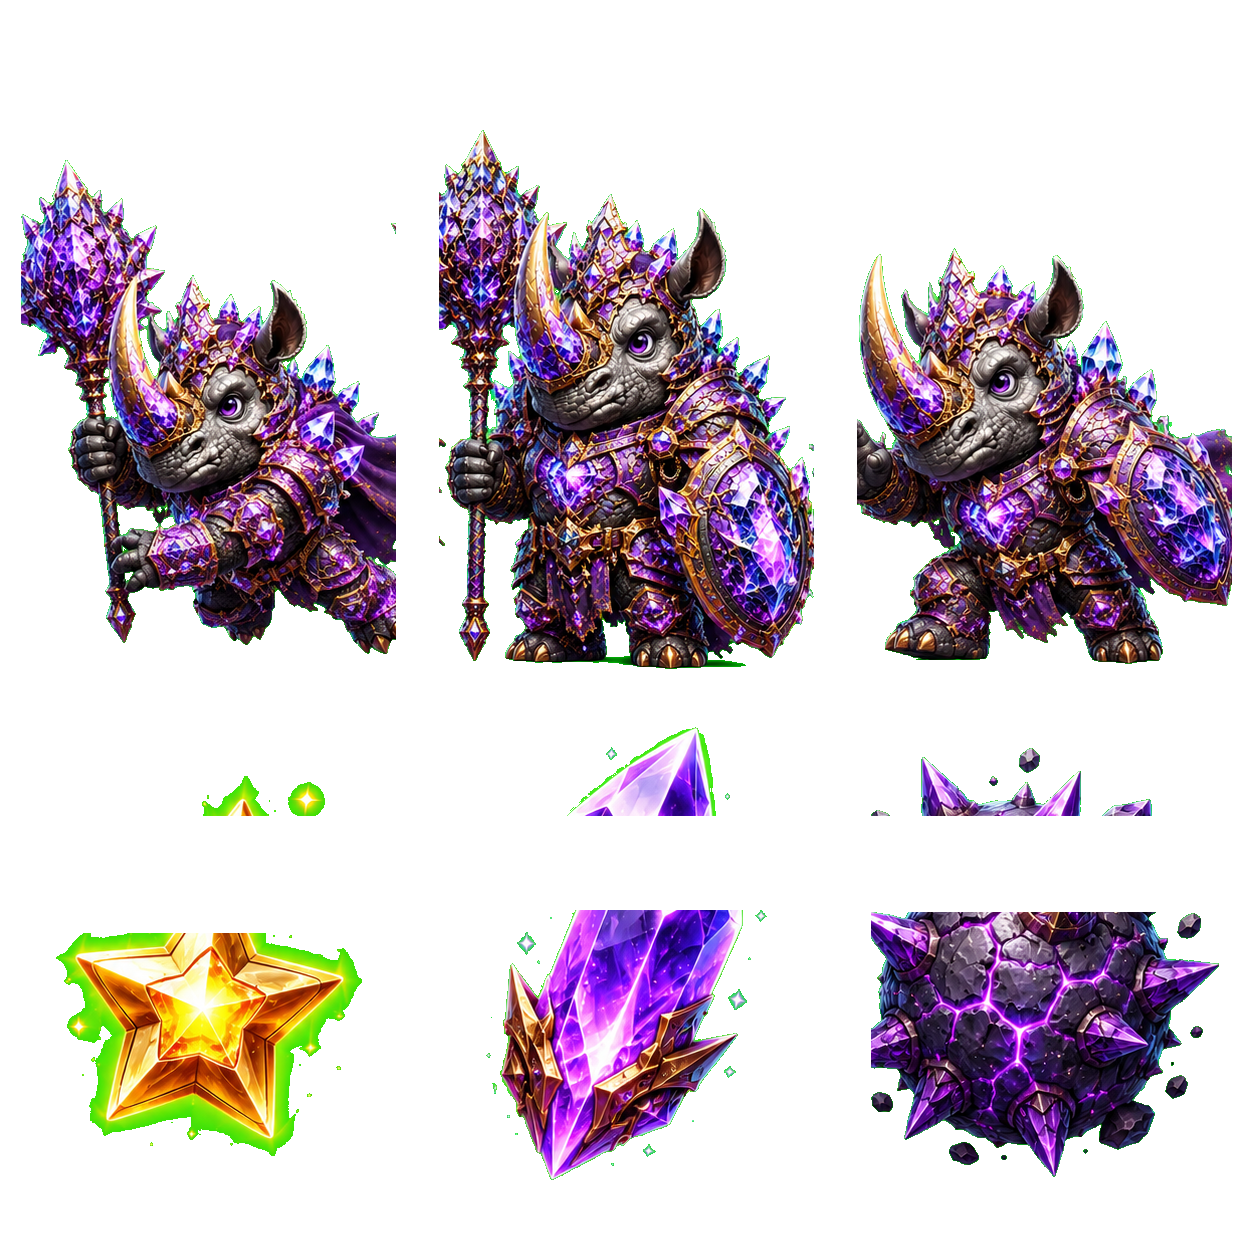
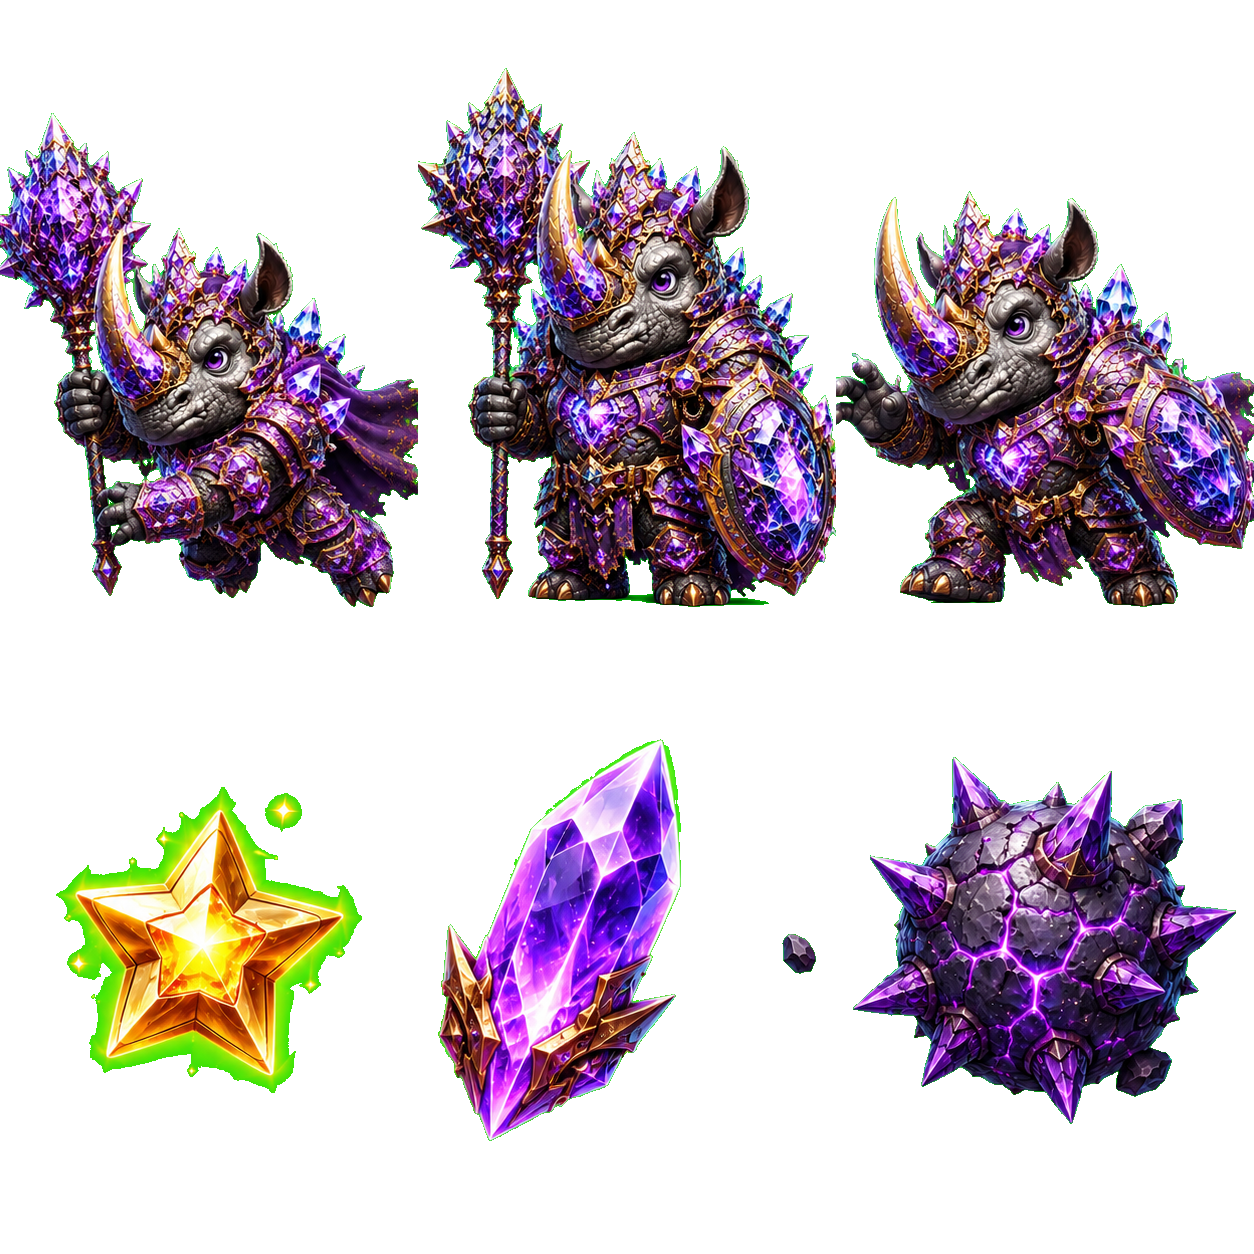
feat: use machine-vision connected components to isolate, crop and center Capybara, Rhino and Buffalo sprites cleanly

diff --git a/app/components/CatcherGame.tsx b/app/components/CatcherGame.tsx
@@ -274,8 +274,8 @@ export default function CatcherGame({ childId, rewardId, characterId, characterN
     player: {
       x: 370,
       targetX: 370,
-      y: 215, // groundY (325) - height (110)
-      width: 55, // Aspect ratio 0.5 scaled to height 110 (55x110)
+      y: 218, // groundY (325) - height (110) adjusted for feet margin
+      width: 73, // Aspect ratio 0.66 scaled to height 110 (73x110)
       height: 110,
       facingLeft: false,
       catchingTimer: 0,
@@ -530,11 +530,11 @@ export default function CatcherGame({ childId, rewardId, characterId, characterN
         }
 
         g.items.push({
-          x: itemX - 5, // Center the 50px item on the lane
+          x: itemX,
           y: -70,
           vy: 3.5 + Math.random() * 1.5,
-          width: 50,
-          height: 50,
+          width: 46,
+          height: 69,
           type,
           collected: false,
           lane
@@ -552,8 +552,8 @@ export default function CatcherGame({ childId, rewardId, characterId, characterN
         if (!item.collected) {
           // Draw item
           if (spriteImg.complete && spriteImg.naturalWidth > 0) {
-            // Slicing parameters: column width 418, row height 418 (square)
-            // Star is index 0, normal index 1, danger index 2 of bottom row (y = 836)
+            // Slicing parameters: column width 418, row height 627
+            // Star is index 0, normal index 1, danger index 2 of bottom row (y = 627)
             let col = 1;
             if (item.type === "star") col = 0;
             if (item.type === "danger") col = 2;
@@ -570,7 +570,7 @@ export default function CatcherGame({ childId, rewardId, characterId, characterN
 
             ctx.drawImage(
               spriteImg,
-              col * 418, 836, 418, 418, // Source rect (items row starts at y=836 and has height 418)
+              col * 418, 627, 418, 627, // Source rect
               item.x, item.y, item.width, item.height // Destination rect
             );
             ctx.restore();
@@ -650,7 +650,7 @@ export default function CatcherGame({ childId, rewardId, characterId, characterN
           return;
         }
 
-        // Slicing parameters: column width 418, row height 836
+        // Slicing parameters: column width 418, row height 627
         let frameIndex = g.player.frame; // walks between frame 0 and 1
         if (g.player.catchingTimer > 0) {
           frameIndex = 2; // display catching frame
@@ -672,13 +672,13 @@ export default function CatcherGame({ childId, rewardId, characterId, characterN
             ctx.scale(-1, 1);
             ctx.drawImage(
               spriteImg,
-              frameIndex * 418, 0, 418, 836, // Source
+              frameIndex * 418, 0, 418, 627, // Source
               0, 0, g.player.width, g.player.height // Destination
             );
           } else {
             ctx.drawImage(
               spriteImg,
-              frameIndex * 418, 0, 418, 836, // Source
+              frameIndex * 418, 0, 418, 627, // Source
               px, py, g.player.width, g.player.height // Destination
             );
           }

diff --git a/scripts/reprocess-catcher-vision.py b/scripts/reprocess-catcher-vision.py
@@ -1,0 +1,174 @@
+import os
+from PIL import Image
+
+def process_vision(input_path, output_path):
+    print(f"Vision processing {os.path.basename(input_path)}...")
+    img = Image.open(input_path).convert("RGBA")
+    w, h = img.size
+    
+    # Chroma-key removal
+    datas = img.getdata()
+    key_color = datas[0]
+    kr, kg, kb = key_color[0], key_color[1], key_color[2]
+    tolerance = 45
+    
+    clean_data = []
+    for item in datas:
+        r, g, b, a = item[0], item[1], item[2], item[3]
+        dist = ((r - kr) ** 2 + (g - kg) ** 2 + (b - kb) ** 2) ** 0.5
+        if dist < tolerance:
+            clean_data.append((0, 0, 0, 0))
+        else:
+            clean_data.append((r, g, b, a))
+            
+    img.putdata(clean_data)
+    
+    # BFS to find connected components
+    visited = [[False]*w for _ in range(h)]
+    components = []
+    
+    # Helper binary mask
+    mask = [[0]*w for _ in range(h)]
+    for y in range(h):
+        for x in range(w):
+            if clean_data[y * w + x][3] > 0:
+                mask[y][x] = 1
+                
+    for y in range(h):
+        for x in range(w):
+            if mask[y][x] == 1 and not visited[y][x]:
+                comp = []
+                queue = [(x, y)]
+                visited[y][x] = True
+                min_x, max_x = x, x
+                min_y, max_y = y, y
+                
+                while queue:
+                    cx, cy = queue.pop(0)
+                    comp.append((cx, cy))
+                    min_x = min(min_x, cx)
+                    max_x = max(max_x, cx)
+                    min_y = min(min_y, cy)
+                    max_y = max(max_y, cy)
+                    
+                    for dx, dy in [(-1, 0), (1, 0), (0, -1), (0, 1)]:
+                        nx, ny = cx + dx, cy + dy
+                        if 0 <= nx < w and 0 <= ny < h:
+                            if mask[ny][nx] == 1 and not visited[ny][nx]:
+                                visited[ny][nx] = True
+                                queue.append((nx, ny))
+                
+                # Keep components with > 1000 pixels to filter out noise
+                if len(comp) > 1000:
+                    components.append({
+                        'pixels': comp,
+                        'bbox': (min_x, min_y, max_x + 1, max_y + 1)
+                    })
+                    
+    print(f"  Found {len(components)} main sprites.")
+    
+    # Map components to the 3x2 grid
+    # Each cell is 418x627
+    cell_w = 418
+    cell_h = 627
+    
+    new_img = Image.new("RGBA", (1254, 1254), (0, 0, 0, 0))
+    
+    # We will initialize grid cells
+    grid = {} # (row, col) -> list of pixels
+    for r in range(2):
+        for c in range(3):
+            grid[(r, c)] = []
+            
+    for comp in components:
+        # Calculate center of mass
+        sum_x = sum(p[0] for p in comp['pixels'])
+        sum_y = sum(p[1] for p in comp['pixels'])
+        n = len(comp['pixels'])
+        cx = sum_x / n
+        cy = sum_y / n
+        
+        # Map to col (0, 1, 2)
+        if cx < 418:
+            col = 0
+        elif cx < 836:
+            col = 1
+        else:
+            col = 2
+            
+        # Map to row (0, 1)
+        if cy < 700:
+            row = 0
+        else:
+            row = 1
+            
+        grid[(row, col)].extend(comp['pixels'])
+        
+    # Reconstruct cells
+    for (r, c), pixels in grid.items():
+        if not pixels:
+            print(f"  Warning: No pixels mapped to cell ({r}, {c})")
+            continue
+            
+        # Find exact bounding box of these pixels
+        xs = [p[0] for p in pixels]
+        ys = [p[1] for p in pixels]
+        x0, x1 = min(xs), max(xs) + 1
+        y0, y1 = min(ys), max(ys) + 1
+        
+        # Crop the sprite from the cleaned image
+        sprite_w = x1 - x0
+        sprite_h = y1 - y0
+        sprite_img = Image.new("RGBA", (sprite_w, sprite_h), (0, 0, 0, 0))
+        for p in pixels:
+            # get pixel color from img
+            color = img.getpixel((p[0], p[1]))
+            sprite_img.putpixel((p[0] - x0, p[1] - y0), color)
+            
+        # Create a new clean cell of size 418x627
+        clean_cell = Image.new("RGBA", (cell_w, cell_h), (0, 0, 0, 0))
+        
+        # Center horizontally
+        dest_x = (cell_w - sprite_w) // 2
+        
+        if r == 0:
+            # Character: align bottom with 20px margin
+            dest_y = cell_h - sprite_h - 20
+        else:
+            # Falling Item: center vertically
+            dest_y = (cell_h - sprite_h) // 2
+            
+        clean_cell.paste(sprite_img, (dest_x, dest_y))
+        new_img.paste(clean_cell, (c * cell_w, r * cell_h))
+        
+    new_img.save(output_path, "PNG")
+    print(f"  Successfully processed and saved to {output_path}")
+
+def main():
+    src_dir = "images/2 - hunter"
+    dest_dir = "public/images/bonus-games/catcher"
+    assets = [
+        ("2 - Капибара — Капи.png", "02_capybara_kapi.png"),
+        ("14 - Буйволёнок — Гром.png", "14_buffalo_grom.png"),
+        ("17 - Носорог — Титан.png", "17_rhino_titan.png"),
+    ]
+    
+    for src_name, dest_name in assets:
+        src_path = os.path.join(src_dir, src_name)
+        dest_path = os.path.join(dest_dir, dest_name)
+        
+        # Resolve potential naming/normalization issues
+        if not os.path.exists(src_path):
+            prefix = src_name.split(" ")[0]
+            for f in os.listdir(src_dir):
+                if f.startswith(prefix) and f.endswith(".png"):
+                    src_path = os.path.join(src_dir, f)
+                    break
+                    
+        if os.path.exists(src_path):
+            process_vision(src_path, dest_path)
+        else:
+            print(f"Error: Source asset {src_name} not found.")
+
+if __name__ == "__main__":
+    main()
